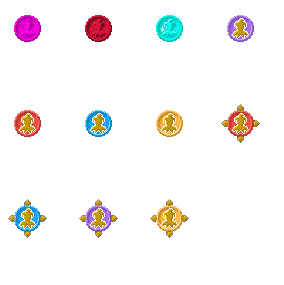
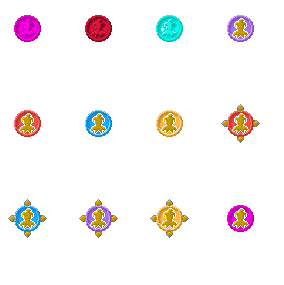
Add two upgrade to pink seal

Changed region(s): [[0.7887, 0.7018, 0.9014, 0.814]]

diff --git a/README.md b/README.md
@@ -29,7 +29,7 @@
 <ul>
     <li>42+ Jokers</li>
     <li>31 Food cards (+8 Cross-Mod)</li>
-    <li>11 Seals</li>
+    <li>13 Seals</li>
     <li>9+ Enhancements</li>
     <li>5 Decks</li>
     <li>4 Booster Packs</li>
